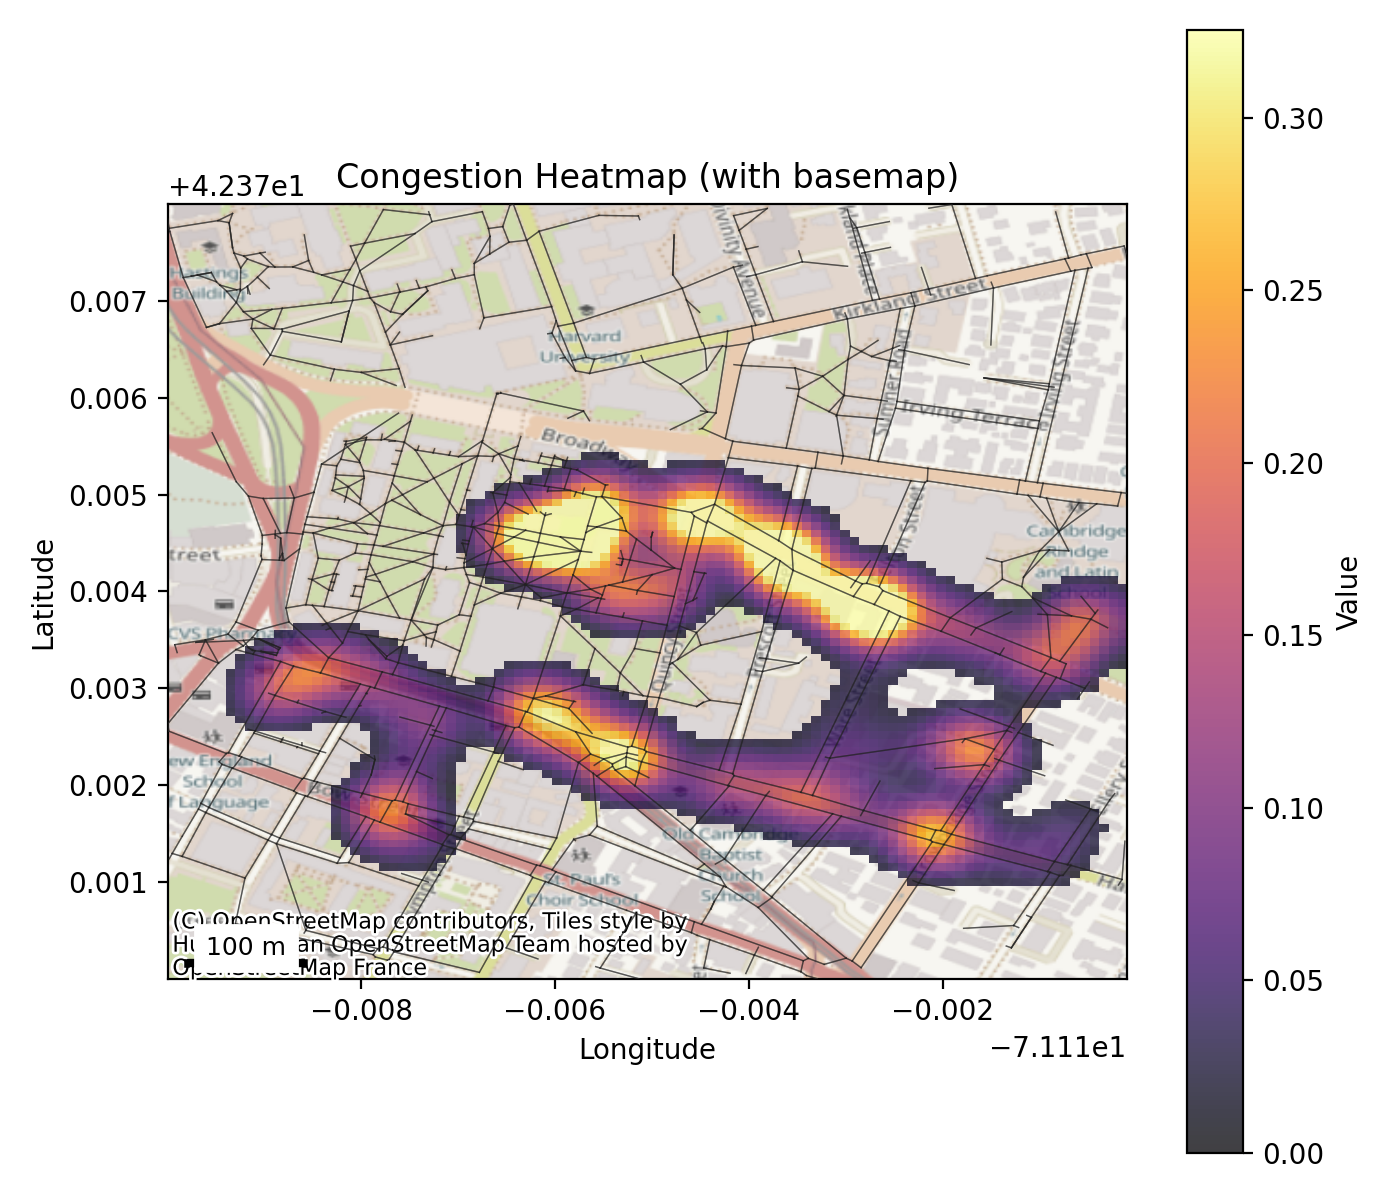
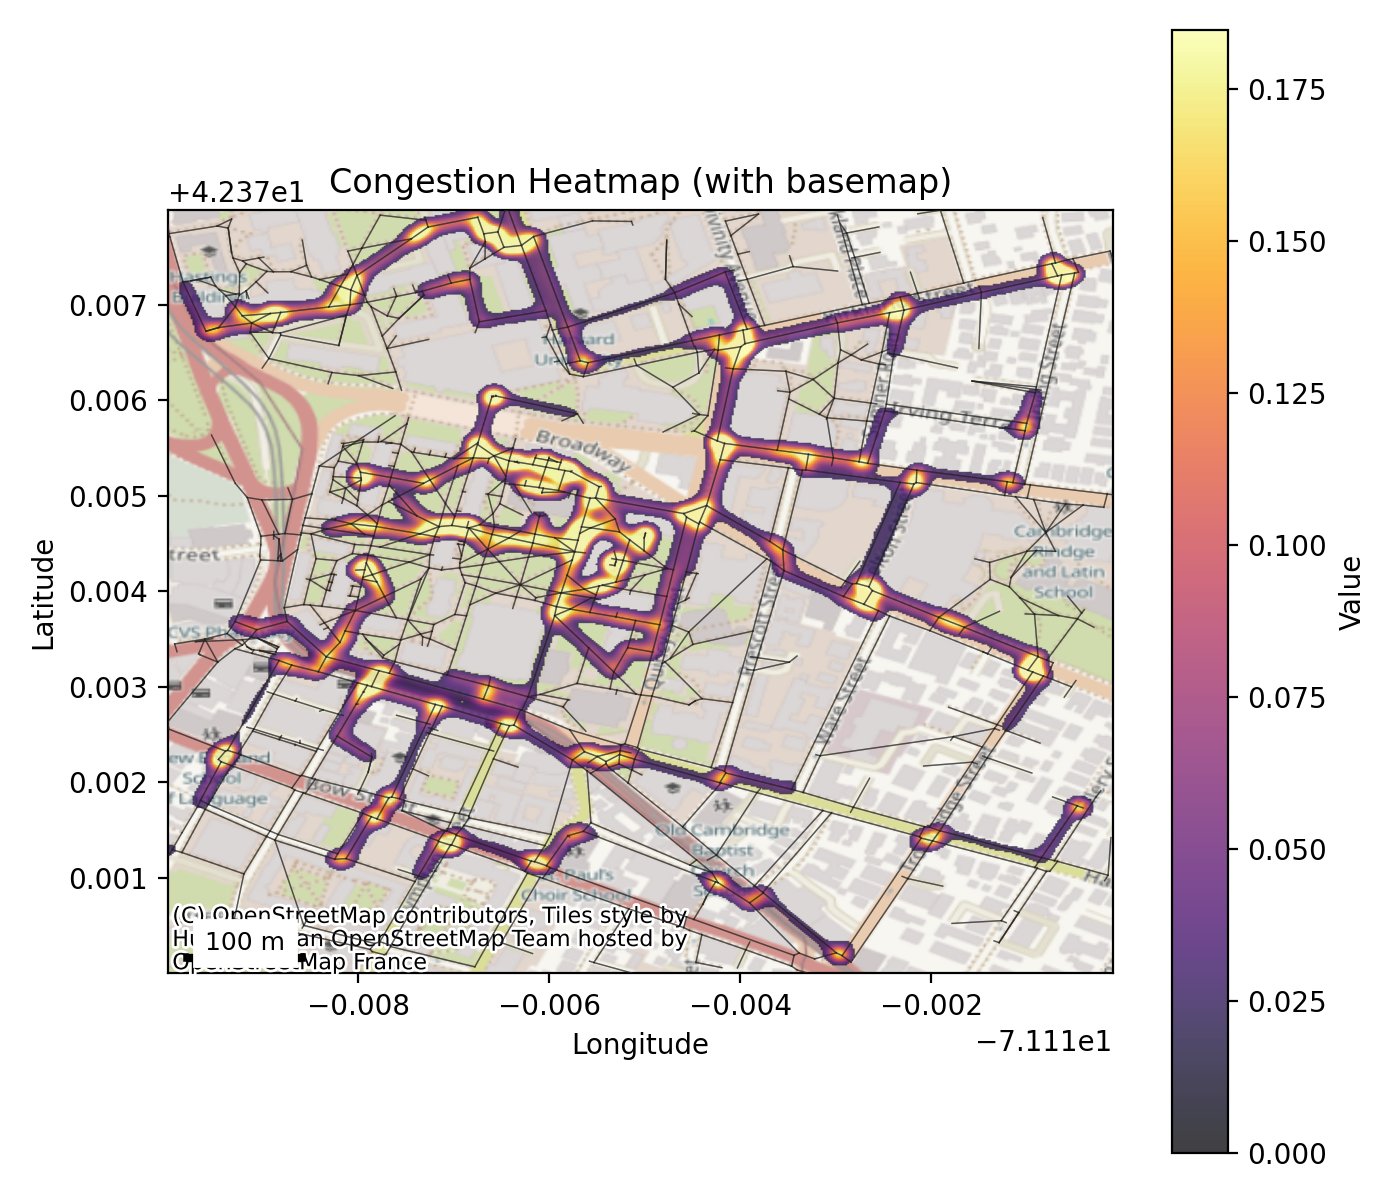
更新模拟参数以增强热力图生成，添加多种路径策略支持

diff --git a/simulation.py b/simulation.py
@@ -6,6 +6,7 @@ import numpy as np
 import networkx as nx
 from collections import defaultdict
 from tqdm import trange, tqdm
+import itertools
 
 
 def run_simulation(
@@ -19,6 +20,13 @@ def run_simulation(
     grid_size=100,
     gaussian_sigma=2,
     random_walker_frac=0.15,
+    random_walker_min=5,
+    random_walker_max=20,
+    population_min=30,
+    population_max=80,
+    flow_noise_frac=0.1,
+    path_mode="shortest",
+    k_shortest=3,
     random_seed=None,
 ):
     """
@@ -28,10 +36,15 @@ def run_simulation(
         grid_metrics: dict
         summary: dict
     """
+    # Set RNG for reproducibility if requested
+    if random_seed is not None:
+        np.random.seed(random_seed)
+
     # Step 3: Demand generation (gravity model)
-    sources = [n for n, p in pois.items() if p["type"] == "dorm"]
-    sinks = [n for n, p in pois.items() if p["type"] in ("classroom", "dining", "library")]
-    population = {n: np.random.randint(30, 80) for n in sources}
+    # 基础 OD: 允许任意已标注的 POI 作为源或汇
+    sources = list(pois.keys())
+    sinks = list(pois.keys())
+    population = {n: np.random.randint(population_min, population_max) for n in sources}
     attraction = {n: pois[n]["weight"] for n in sinks}
     # Precompute shortest path lengths
     lengths = dict(nx.all_pairs_dijkstra_path_length(G, weight="length"))
@@ -42,7 +55,7 @@ def run_simulation(
                 continue
             dist = lengths[i][j]
             flow = (population[i] * attraction[j]) / (dist ** 2 + epsilon)
-            flow += np.random.normal(0, 0.1 * flow)  # Gaussian noise
+            flow += np.random.normal(0, flow_noise_frac * flow)  # Gaussian noise
             if flow > 0:
                 od_flows[(i, j)] += max(flow, 0)
     # Add random walkers
@@ -50,7 +63,7 @@ def run_simulation(
     n_random = int(random_walker_frac * max(1, len(od_flows)))
     for _ in tqdm(range(n_random), desc="Random Walkers", unit="rw"):
         i, j = np.random.choice(all_nodes, 2, replace=False)
-        od_flows[(i, j)] += np.random.uniform(5, 20)
+        od_flows[(i, j)] += np.random.uniform(random_walker_min, random_walker_max)
     # Step 4: Path simulation (slime mold + ant-colony)
     # 为兼容 MultiDiGraph，使用带 key 的 edge tuple (u,v,k) 作为字典键
     if G.is_multigraph():
@@ -78,7 +91,73 @@ def run_simulation(
                     if "length" not in d or dval is None:
                         return 1e9  # 极大权重，跳过无效边
                     return d["length"] / (dval + 1e-2)
-                path = nx.shortest_path(G, i, j, weight=weight_func)
+
+                # 支持多种路径策略
+                if path_mode == "shortest":
+                    path = nx.shortest_path(G, i, j, weight=weight_func)
+                elif path_mode == "stochastic_k":
+                    try:
+                        paths_gen = nx.shortest_simple_paths(G, i, j, weight=weight_func)
+                        candidates = list(itertools.islice(paths_gen, k_shortest))
+                        if not candidates:
+                            continue
+
+                        def path_cost(p):
+                            cost = 0.0
+                            for u, v in zip(p[:-1], p[1:]):
+                                if G.is_multigraph():
+                                    try:
+                                        k0 = next(iter(G[u][v]))
+                                        d0 = G[u][v][k0]
+                                    except Exception:
+                                        d0 = list(G[u][v].values())[0]
+                                else:
+                                    d0 = G[u][v]
+                                cost += weight_func(u, v, d0)
+                            return cost
+
+                        costs = np.array([path_cost(p) for p in candidates])
+                        probs = (1.0 / (costs + 1e-6))
+                        probs = probs / probs.sum()
+                        idx = np.random.choice(len(candidates), p=probs)
+                        path = candidates[int(idx)]
+                    except Exception:
+                        continue
+                elif path_mode == "random_walk":
+                    current = i
+                    path = [i]
+                    max_steps = max(50, len(G) * 4)
+                    steps = 0
+                    while current != j and steps < max_steps:
+                        # neighbors for MultiGraph vs Graph
+                        if G.is_multigraph():
+                            neighs = list(G[current].keys())
+                        else:
+                            neighs = list(G[current])
+                        if not neighs:
+                            break
+                        weights = []
+                        for nb in neighs:
+                            if G.is_multigraph():
+                                try:
+                                    k0 = next(iter(G[current][nb]))
+                                    d0 = G[current][nb][k0]
+                                except Exception:
+                                    d0 = list(G[current][nb].values())[0]
+                            else:
+                                d0 = G[current][nb]
+                            weights.append(1.0 / (d0.get("length", 1.0) + 1e-6))
+                        probs = np.array(weights) / np.sum(weights)
+                        nb = np.random.choice(neighs, p=probs)
+                        path.append(nb)
+                        current = nb
+                        steps += 1
+                    if current != j:
+                        # 未能到达目标，跳过该 OD
+                        continue
+                else:
+                    # 未知模式，回退到最短路径
+                    path = nx.shortest_path(G, i, j, weight=weight_func)
             except nx.NetworkXNoPath:
                 continue
             for u, v in zip(path[:-1], path[1:]):

diff --git a/main.py b/main.py
@@ -22,14 +22,23 @@ from visualization import generate_heatmaps, print_summary_stats
 # - heatmap_alpha: 热力图叠加到底图时的透明度（0.0-1.0）
 CONFIG = {
     # 模拟参数
-    "duration": 60,
+    "duration": 600,
     "timestep": 1,
     "alpha": 0.1,
     "epsilon": 1e-3,
     "sim_iters": 10,
-    "grid_size": 100,
-    "gaussian_sigma": 2,
-    "random_walker_frac": 0.15,
+    "grid_size": 500,
+    "gaussian_sigma": 3,
+        "random_walker_frac": 0.15,
+        # 随机参数（可在此调节）
+        "population_min": 3000,
+        "population_max": 8000,
+        "random_walker_min": 50,
+        "random_walker_max": 200,
+        "flow_noise_frac": 0.1,
+        # 路径策略：'shortest' | 'random_walk' | 'stochastic_k'
+        "path_mode": "random_walk",
+        "k_shortest": 3,
     "random_seed": 42,
     # 可视化参数
     "heatmap_threshold": 0.02,  # 归一化后值，低于此值设为透明
@@ -55,6 +64,13 @@ def run_all():
         grid_size=CONFIG["grid_size"],
         gaussian_sigma=CONFIG["gaussian_sigma"],
         random_walker_frac=CONFIG["random_walker_frac"],
+        random_walker_min=CONFIG["random_walker_min"],
+        random_walker_max=CONFIG["random_walker_max"],
+        population_min=CONFIG["population_min"],
+        population_max=CONFIG["population_max"],
+        flow_noise_frac=CONFIG["flow_noise_frac"],
+        path_mode=CONFIG["path_mode"],
+        k_shortest=CONFIG["k_shortest"],
         random_seed=CONFIG["random_seed"],
     )
 
